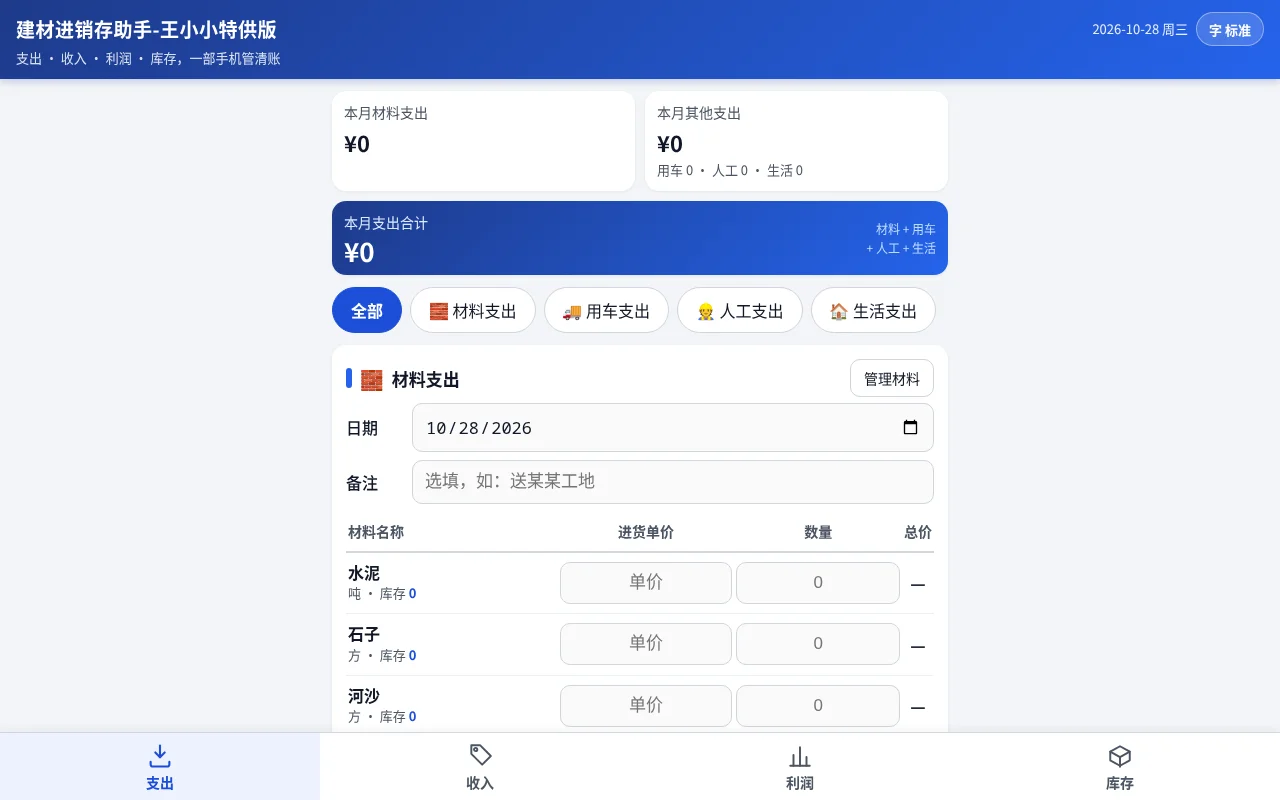
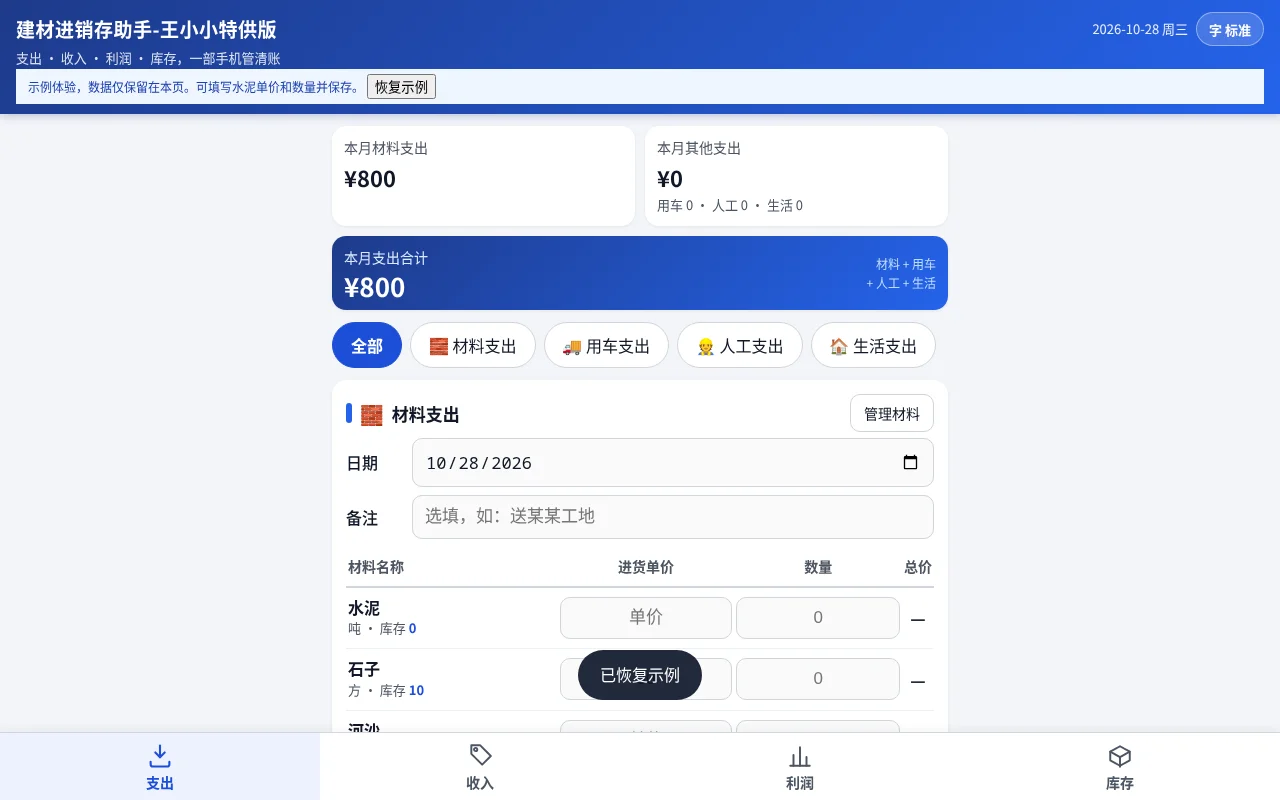
Add building materials inventory assistant

Changed region(s): [[0.0, 0.0625, 1.0, 0.9062], [0.4375, 0.6562, 0.75, 0.9062], [0.625, 0.8438, 0.6562, 0.875]]

diff --git a/wb1024-c081-b3ba06fa/showcase/preview.html b/wb1024-c081-b3ba06fa/showcase/preview.html
@@ -281,7 +281,7 @@ details.tips li{margin-bottom:6px}
 <header>
   <div class="hrow"><h1>建材进销存助手-王小小特供版</h1><div class="htools"><span class="hdate" id="hdate"></span><button class="hbtn" data-act="fontScale" title="点我放大或缩小字号，方便查看" type="button">字 标准</button></div></div>
   <div class="hsub">支出 · 收入 · 利润 · 库存，一部手机管清账</div>
-</header>
+<div style="font-size:12px;padding:5px 12px;background:#eff6ff;color:#1e40af">示例体验，数据仅保留在本页。可填写水泥单价和数量并保存。 <button id="demoReset" type="button">恢复示例</button></div></header>
 <main id="view"></main>
 <nav id="nav"></nav>
 <div id="modal"></div>
@@ -292,6 +292,8 @@ details.tips li{margin-bottom:6px}
 <script>
 'use strict';
 const localStorage=(()=>{const d={};return {getItem:k=>d[k]??null,setItem:(k,v)=>{d[k]=String(v)},removeItem:k=>delete d[k]}})();
+const confirm=()=>{toast('示例中此操作不可用，安装后可使用');return false};
+const alert=msg=>toast(msg);
 /* ================= 工具 ================= */
 const $=s=>document.querySelector(s);
 const R2=n=>Math.round((+n||0)*100)/100;
@@ -2018,6 +2020,19 @@ function cycleFontScale(){
  toast('字号：'+(FS_LEVELS[fsIdx]===1?'标准':Math.round(FS_LEVELS[fsIdx]*100)+'%')+'（已记住）');
 }
 
+/* 示例只在本页内存中运行。 */
+function resetDemo(){
+ db=defaultDB();const m=db.materials[1];
+ db.purchases.push({id:'demo-buy',ts:1,date:todayStr(),mid:m.id,price:80,qty:10,total:800,note:'示例'});
+ DRAFT={date:todayStr(),prices:{},qtys:{},note:'',cleared:false};tab='buy';buySeg='all';incSeg='all';localStorage.removeItem(BK_KEY);draftSave();render();toast('已恢复示例');
+}
+document.addEventListener('click',e=>{
+ if(e.target.id==='demoReset'){resetDemo();return;}
+ const b=e.target.closest('[data-act]');if(!b)return;
+ if(['buyCSV','sellCSV','stockCSV','profitCSV','buyPrint','sellPrint','profitPrint','backup','importBtn'].includes(b.dataset.act)){
+  e.stopImmediatePropagation();toast('示例不提供文件操作，安装后可使用');
+ }
+},true);
 /* ================= 启动 ================= */
 (function init(){
  const d=new Date();
@@ -2026,7 +2041,7 @@ function cycleFontScale(){
  if(['buy','sell','profit'].includes(h))tab=h;
  draftLoad();
  applyFontScale();
- render();
+ resetDemo();
 })();
 </script>
 </body>
